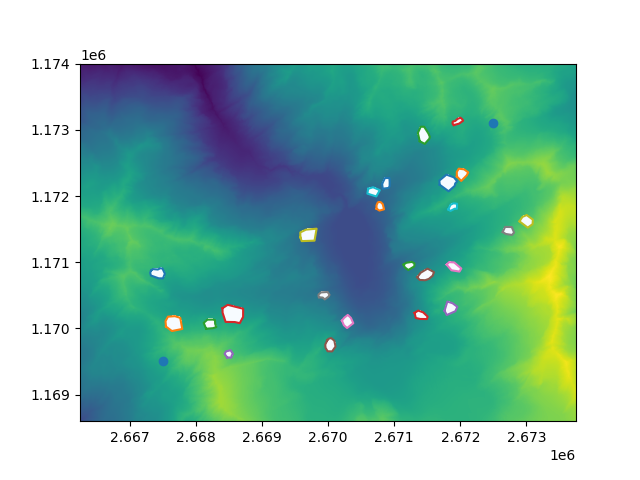
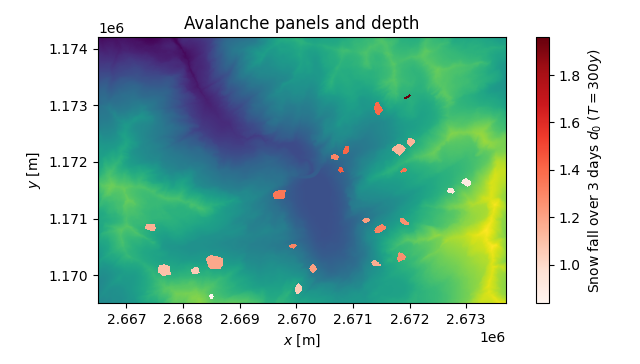
plot style

diff --git a/AVAC/qinit.py b/AVAC/qinit.py
@@ -49,7 +49,11 @@ def write_qinit(avid="", plot=False):
         plt.figure(layout="tight")
         plt.imshow(Z, extent=ext)
         im = plt.imshow(np.ma.MaskedArray(qinit, mask=qinit==0), extent=ext, cmap=plt.cm.Reds)
-        plt.colorbar(im)
+        plt.xlabel("$x$ [m]")
+        plt.ylabel("$y$ [m]")
+        plt.title("Avalanche panels and depth")
+        c = plt.colorbar(im)
+        c.set_label("Snow fall over 3 days $d_0$ ($T=300y$)")
         # plt.legend()
         plt.show()
 
